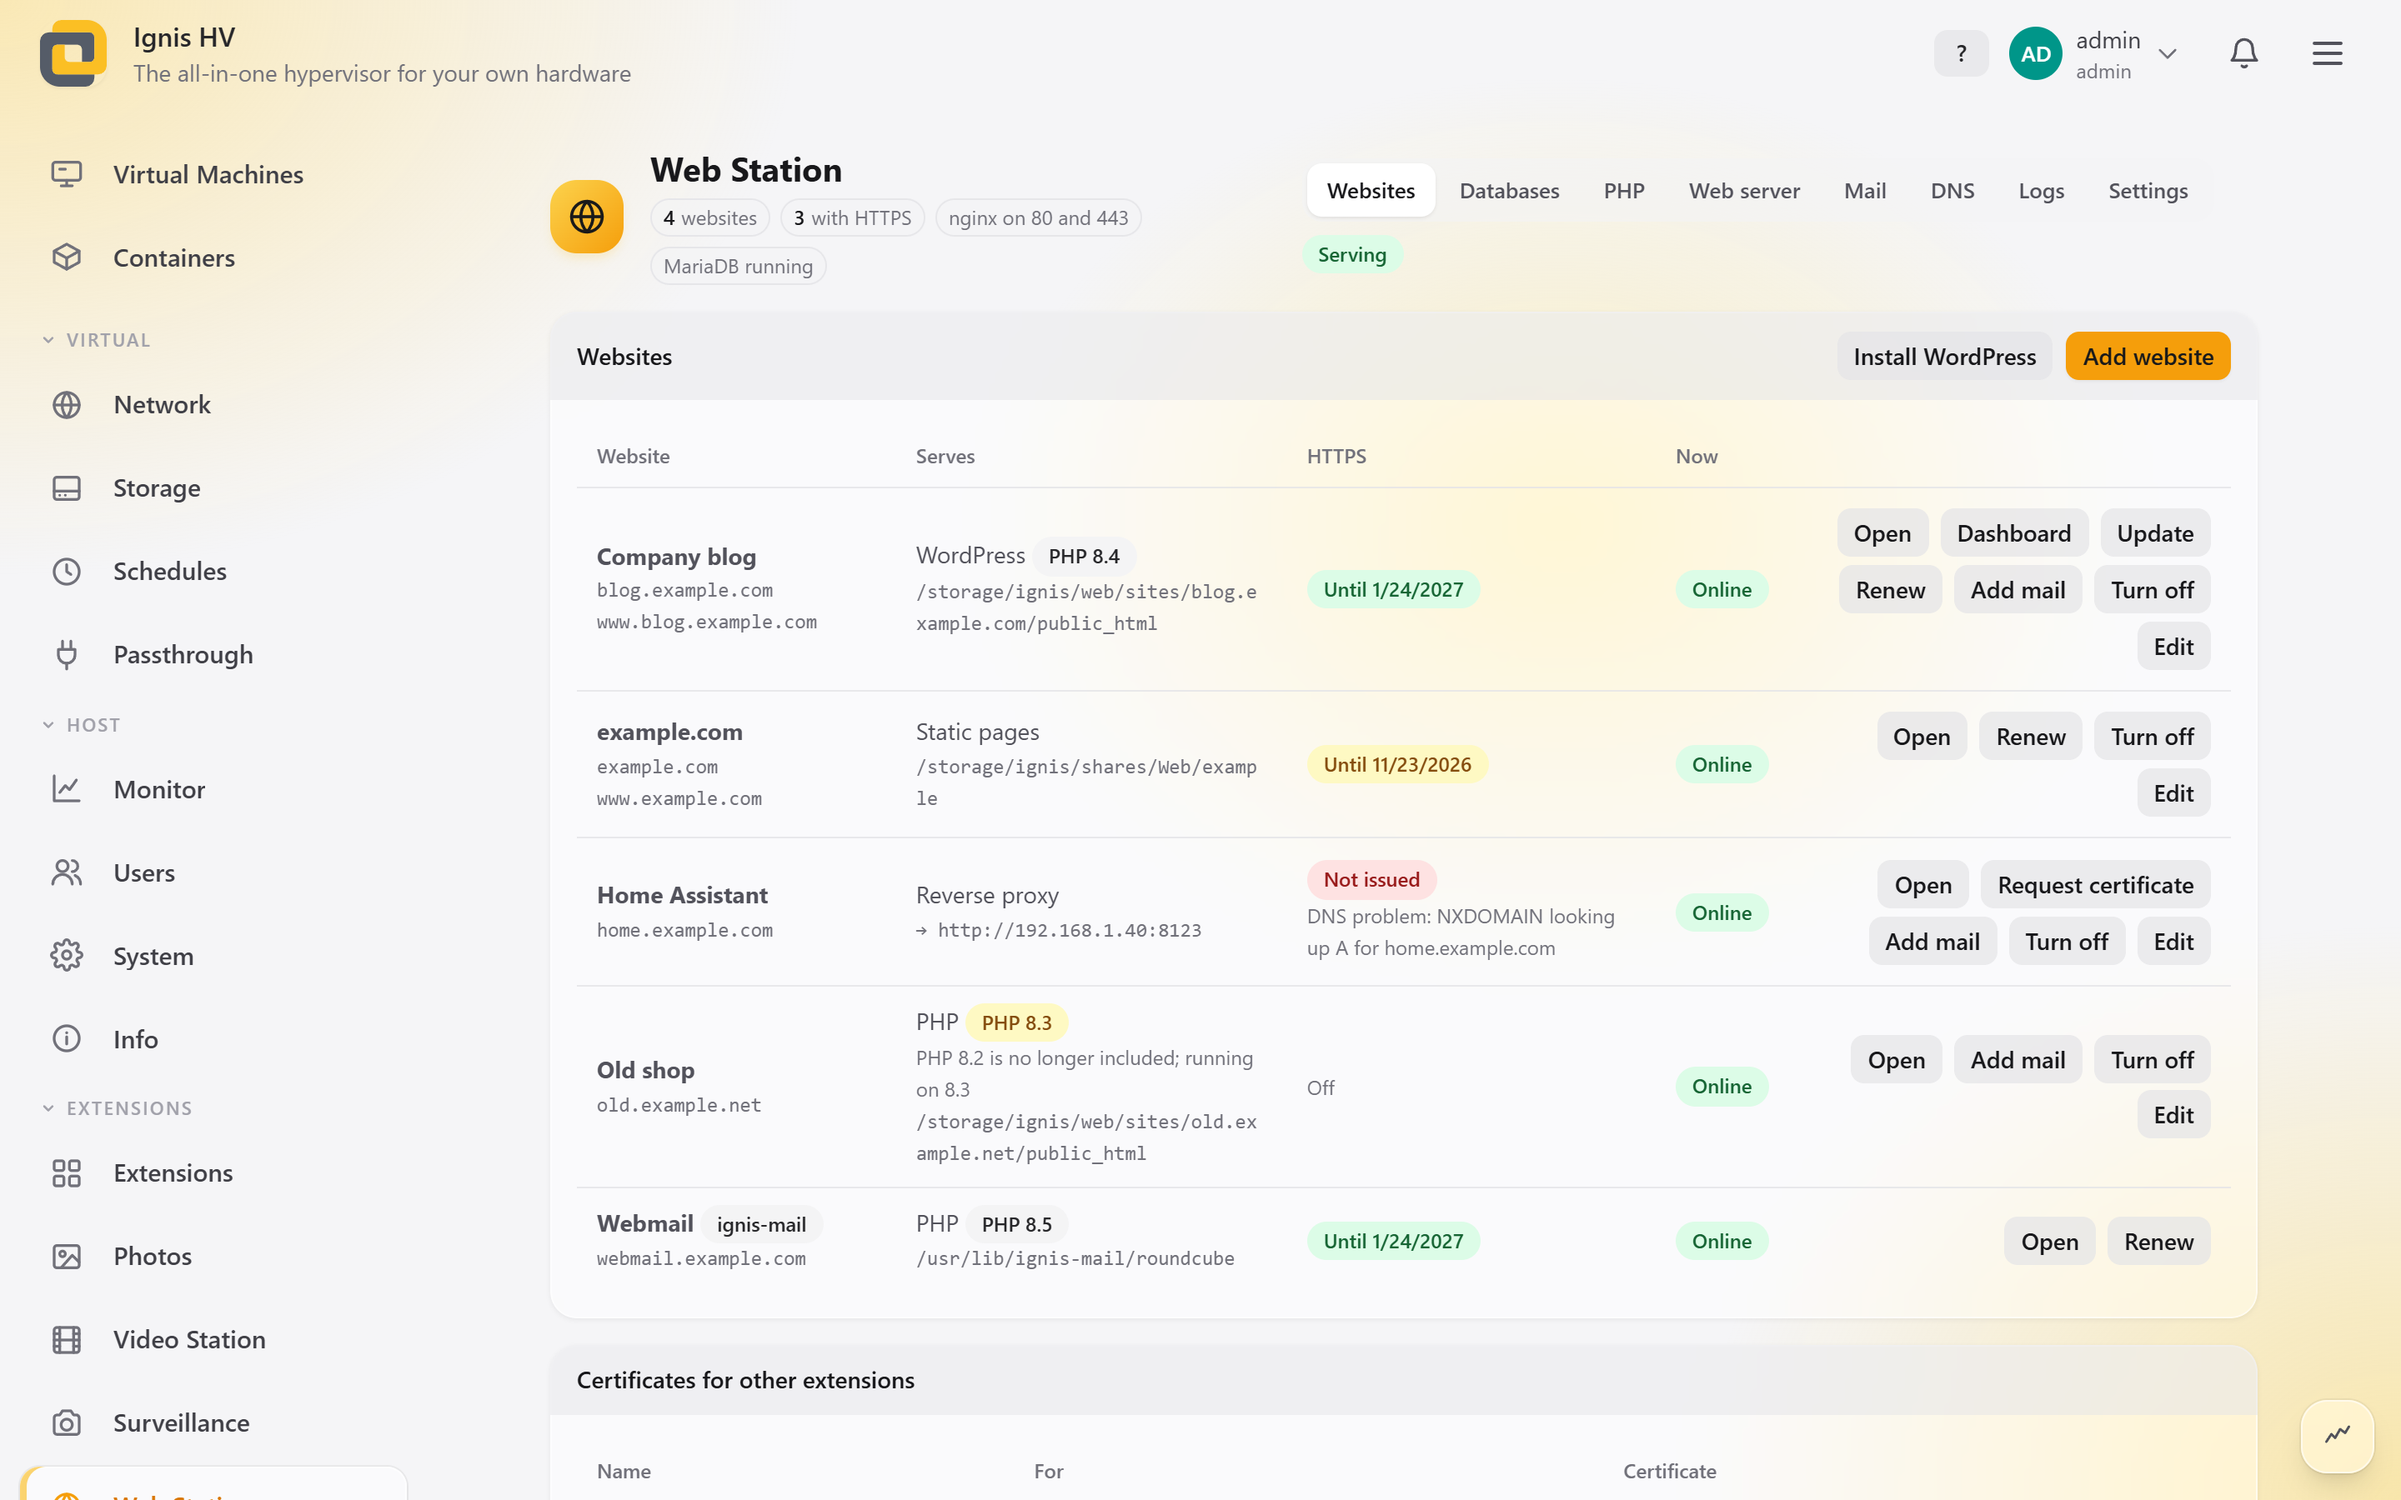
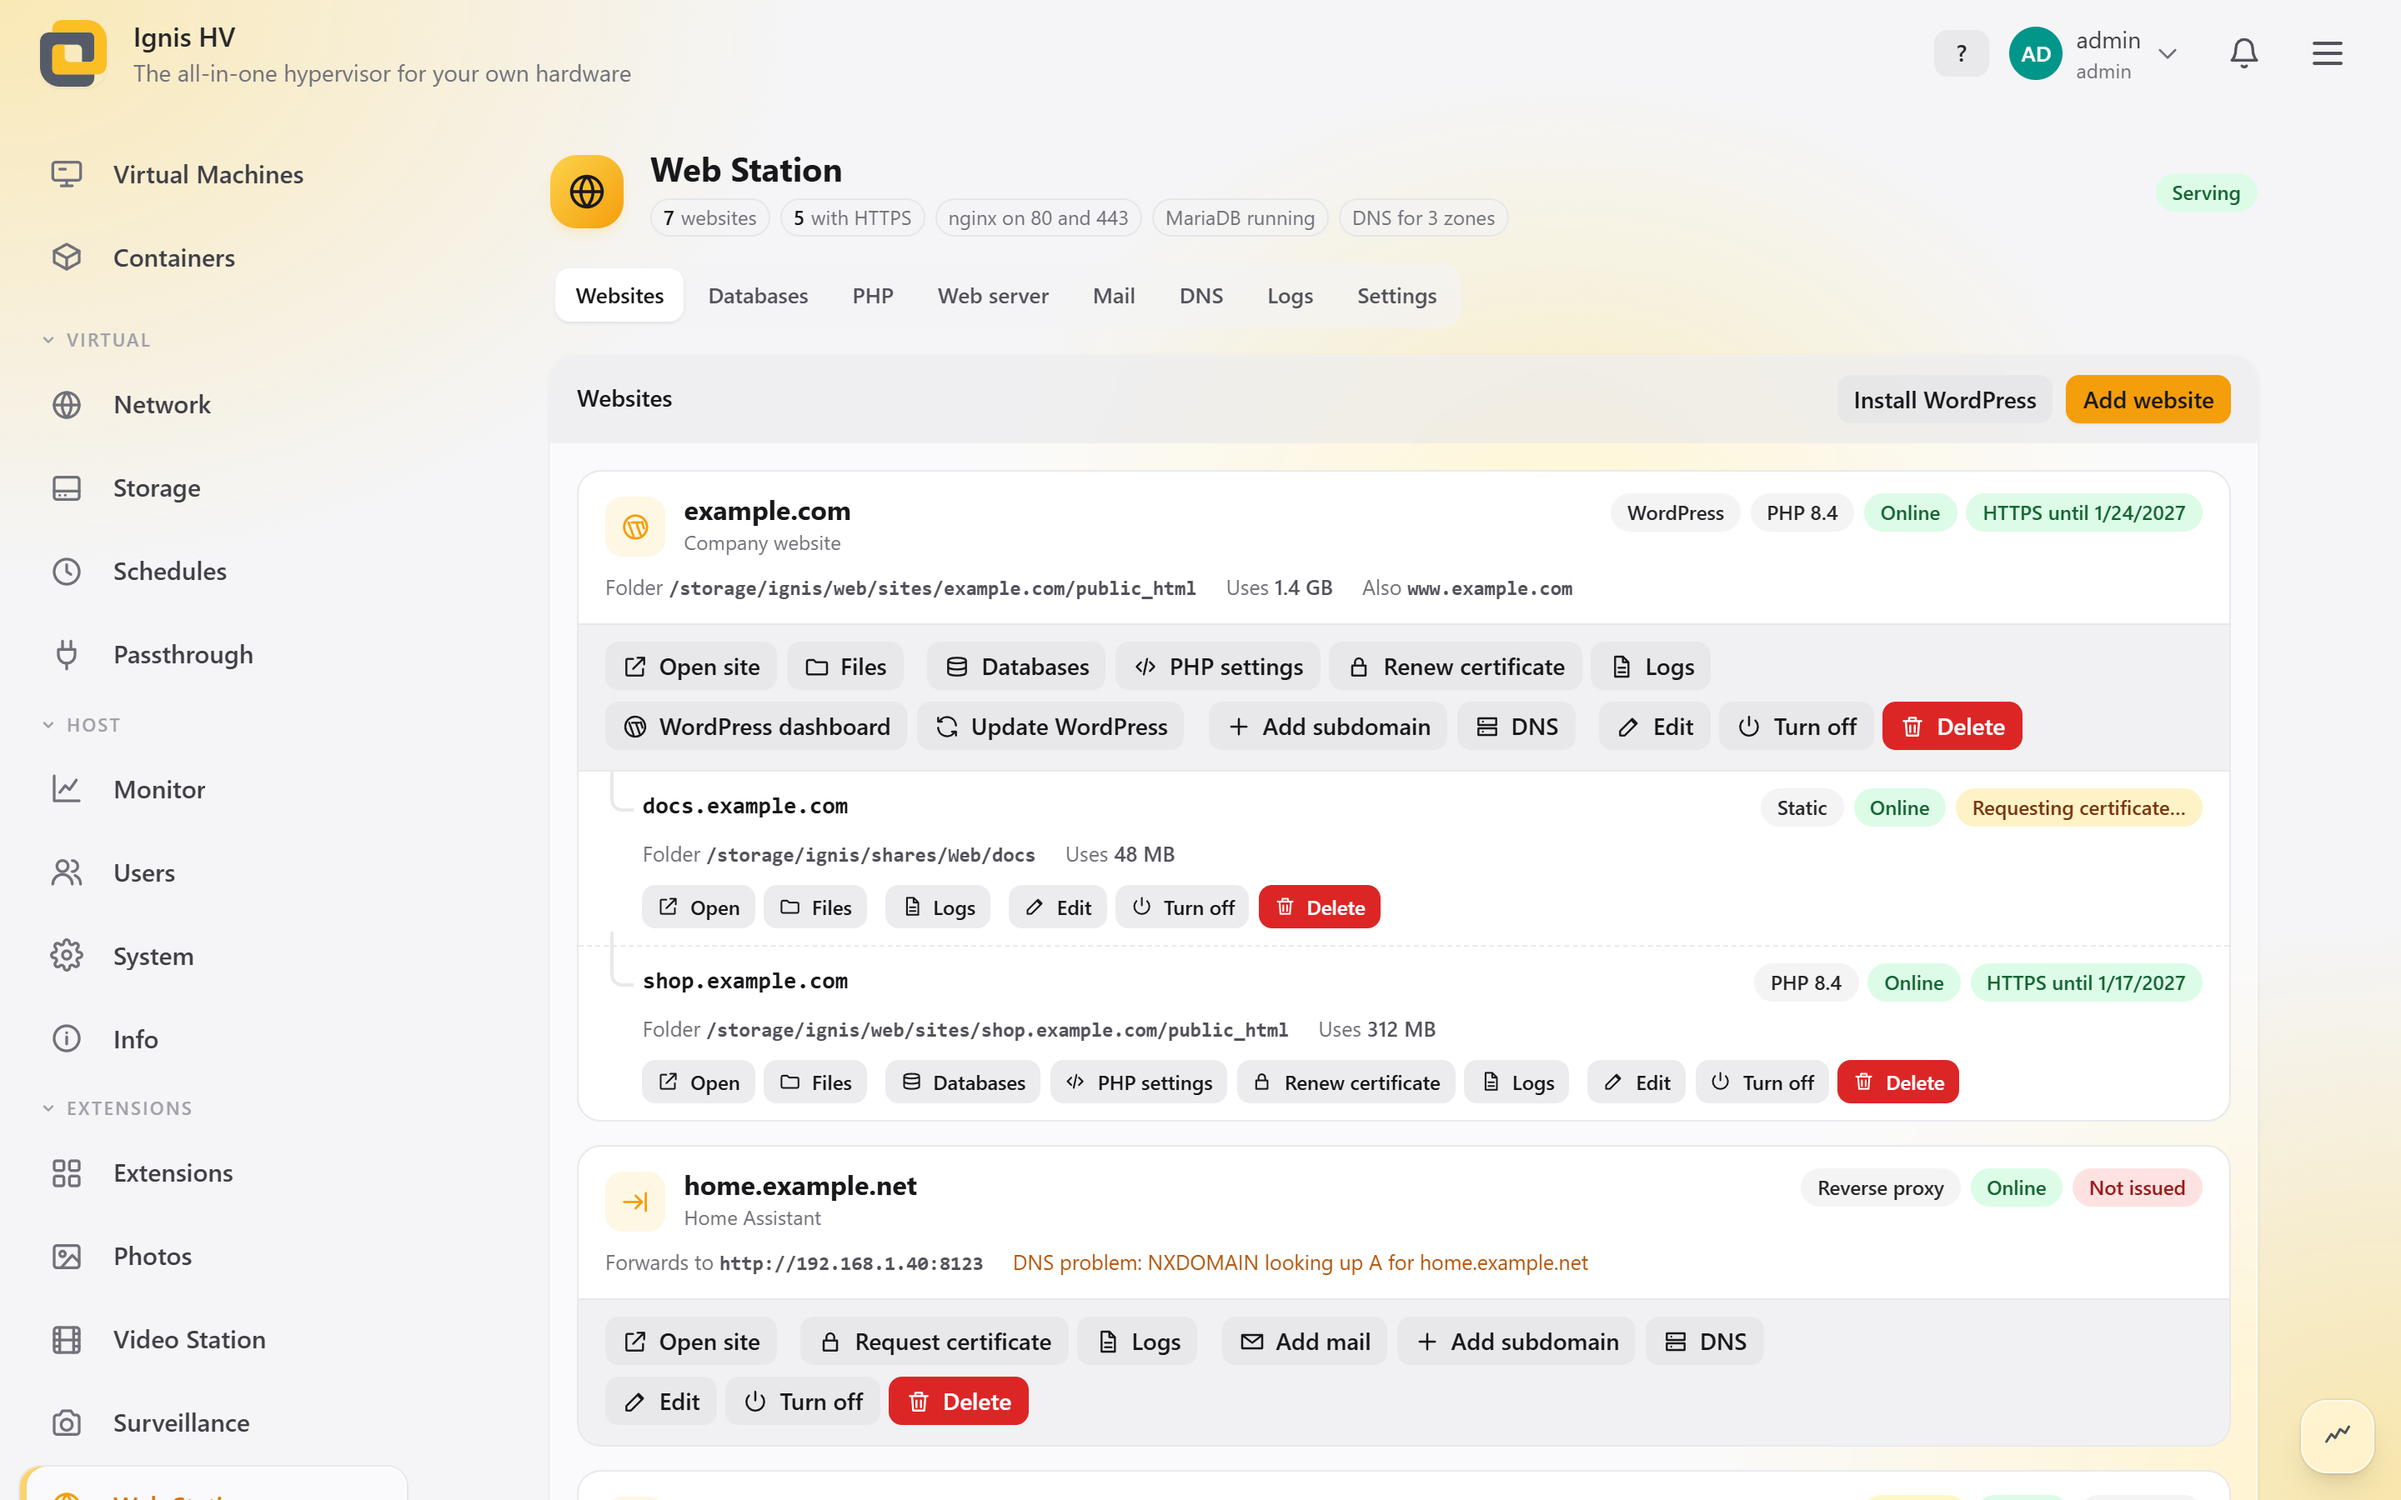
readme: Web Station's websites as boxes, with subdomains
The Web Station screenshot shows each website in a box with its controls and its subdomains nested inside.

diff --git a/README.md b/README.md
@@ -79,7 +79,7 @@ Add apps from the **Extensions** tab. Install only the ones you need; each one i
 | **Video Station** | Your movies and TV shows with posters, played in the browser. Also plays on TVs, consoles and Kodi |
 | **Surveillance** | Records your IP cameras, live view in a grid, motion events and playback. Can recognise people, vehicles, faces and number plates, and alert you |
 | **Download Station** | Downloads links, torrents and magnet links into a folder you choose |
-| **Web Station** | Hosts your own websites with PHP 8.3, 8.4 or 8.5 and databases, including WordPress in one click, each with its own certificate. Also a DNS server for your own domains that fills in its records by itself |
+| **Web Station** | Hosts your own websites and their subdomains with PHP 8.3, 8.4 or 8.5 and databases, including WordPress in one click, each with its own certificate. Also a DNS server for your own domains that fills in its records by itself |
 | **Mail Server** | Email for your own domain, with webmail, a spam filter and help with the DNS settings. Works best with Web Station |
 | **VPN** | Reach your home network from anywhere with WireGuard, OpenVPN, IPsec or Tailscale, or send machines and containers through a VPN |
 | **SAN Manager** | Offers storage to other computers over iSCSI |
@@ -167,7 +167,7 @@ Pick the look you like from the account menu: a light or dark mode, an accent co
     <td width="50%"><img alt="Drive: a folder of pictures as thumbnails" src="assets/screenshots/apps/drive.png"><br><sub><b>Drive</b>: your shared folders in the browser, with share links</sub></td>
   </tr>
   <tr>
-    <td width="50%"><img alt="Web Station: websites with their PHP version and certificate" src="assets/screenshots/apps/web.png"><br><sub><b>Web Station</b>: your websites with HTTPS, PHP 8.3 to 8.5 per site and WordPress in one click</sub></td>
+    <td width="50%"><img alt="Web Station: example.com with its docs and shop subdomains, each with its PHP version, certificate and buttons" src="assets/screenshots/apps/web.png"><br><sub><b>Web Station</b>: each website in a box with its controls, subdomains nested inside, PHP 8.3 to 8.5 and HTTPS per site</sub></td>
     <td width="50%"><img alt="Game Servers: five servers with players and usage" src="assets/screenshots/apps/games.png"><br><sub><b>Game Servers</b>: Minecraft, Valheim and about 150 more, with console and backups</sub></td>
   </tr>
   <tr>
